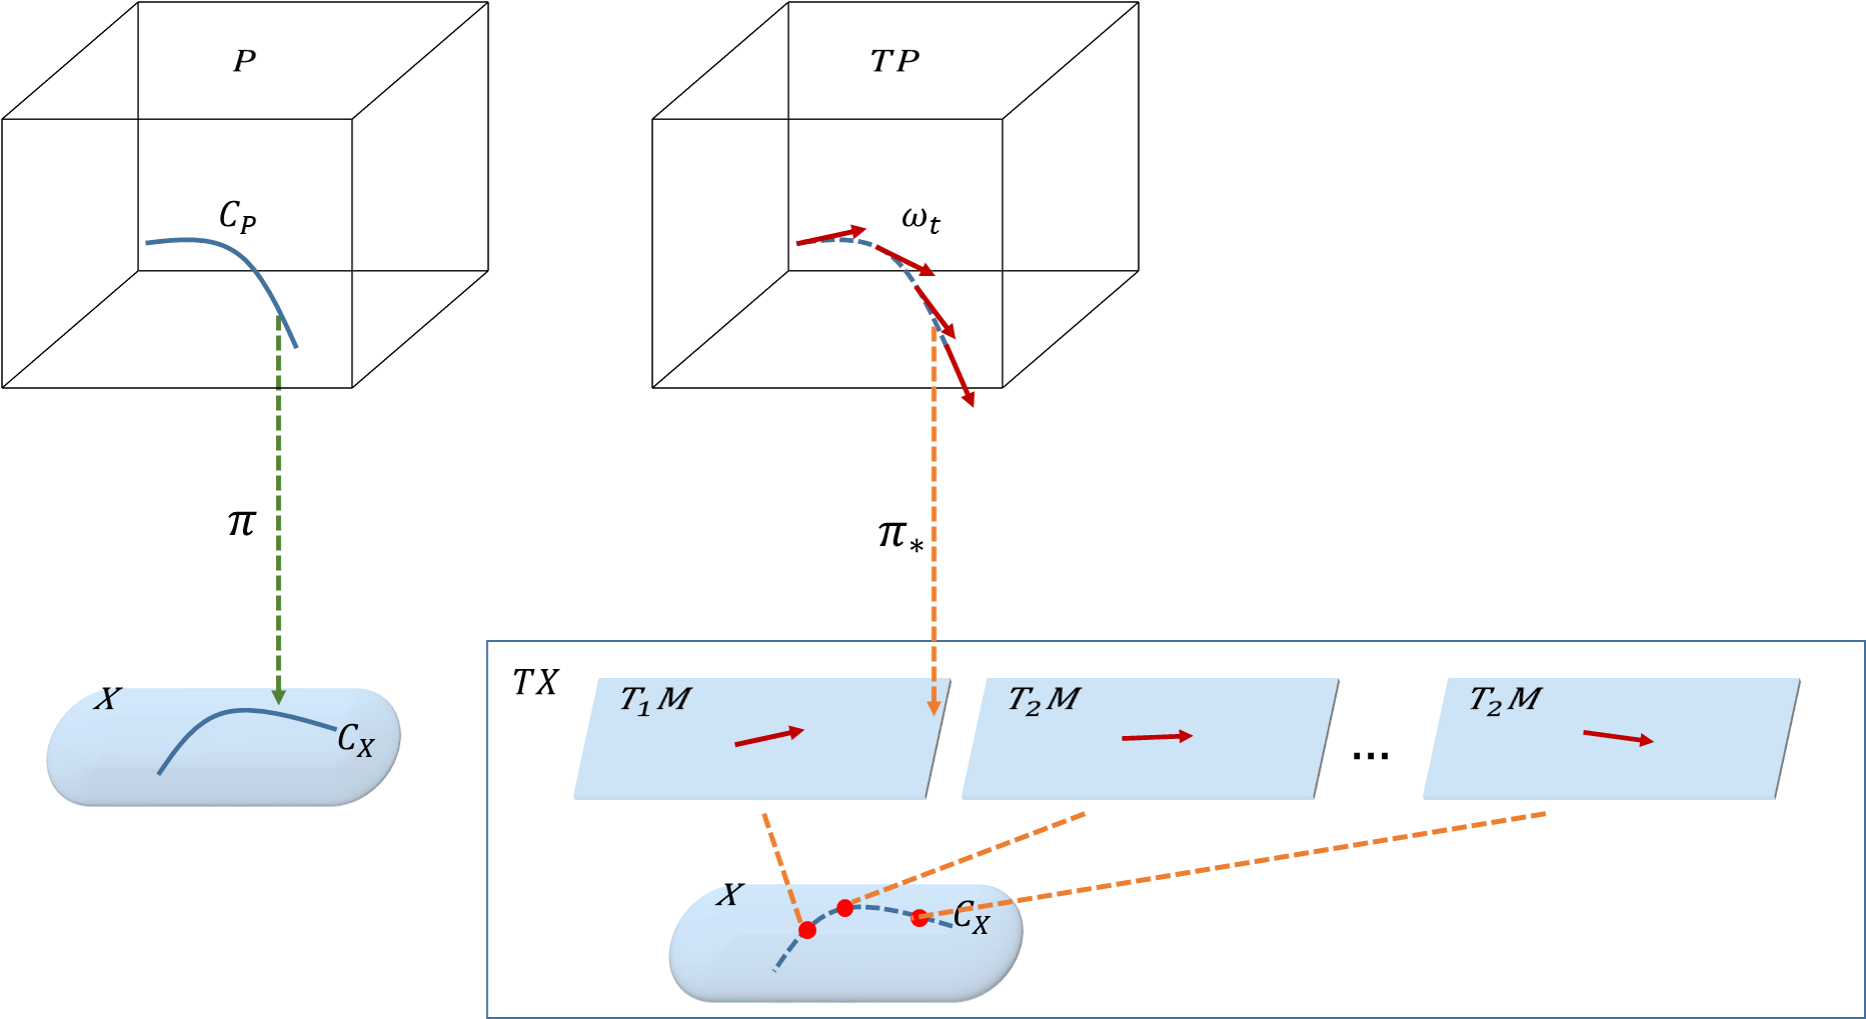
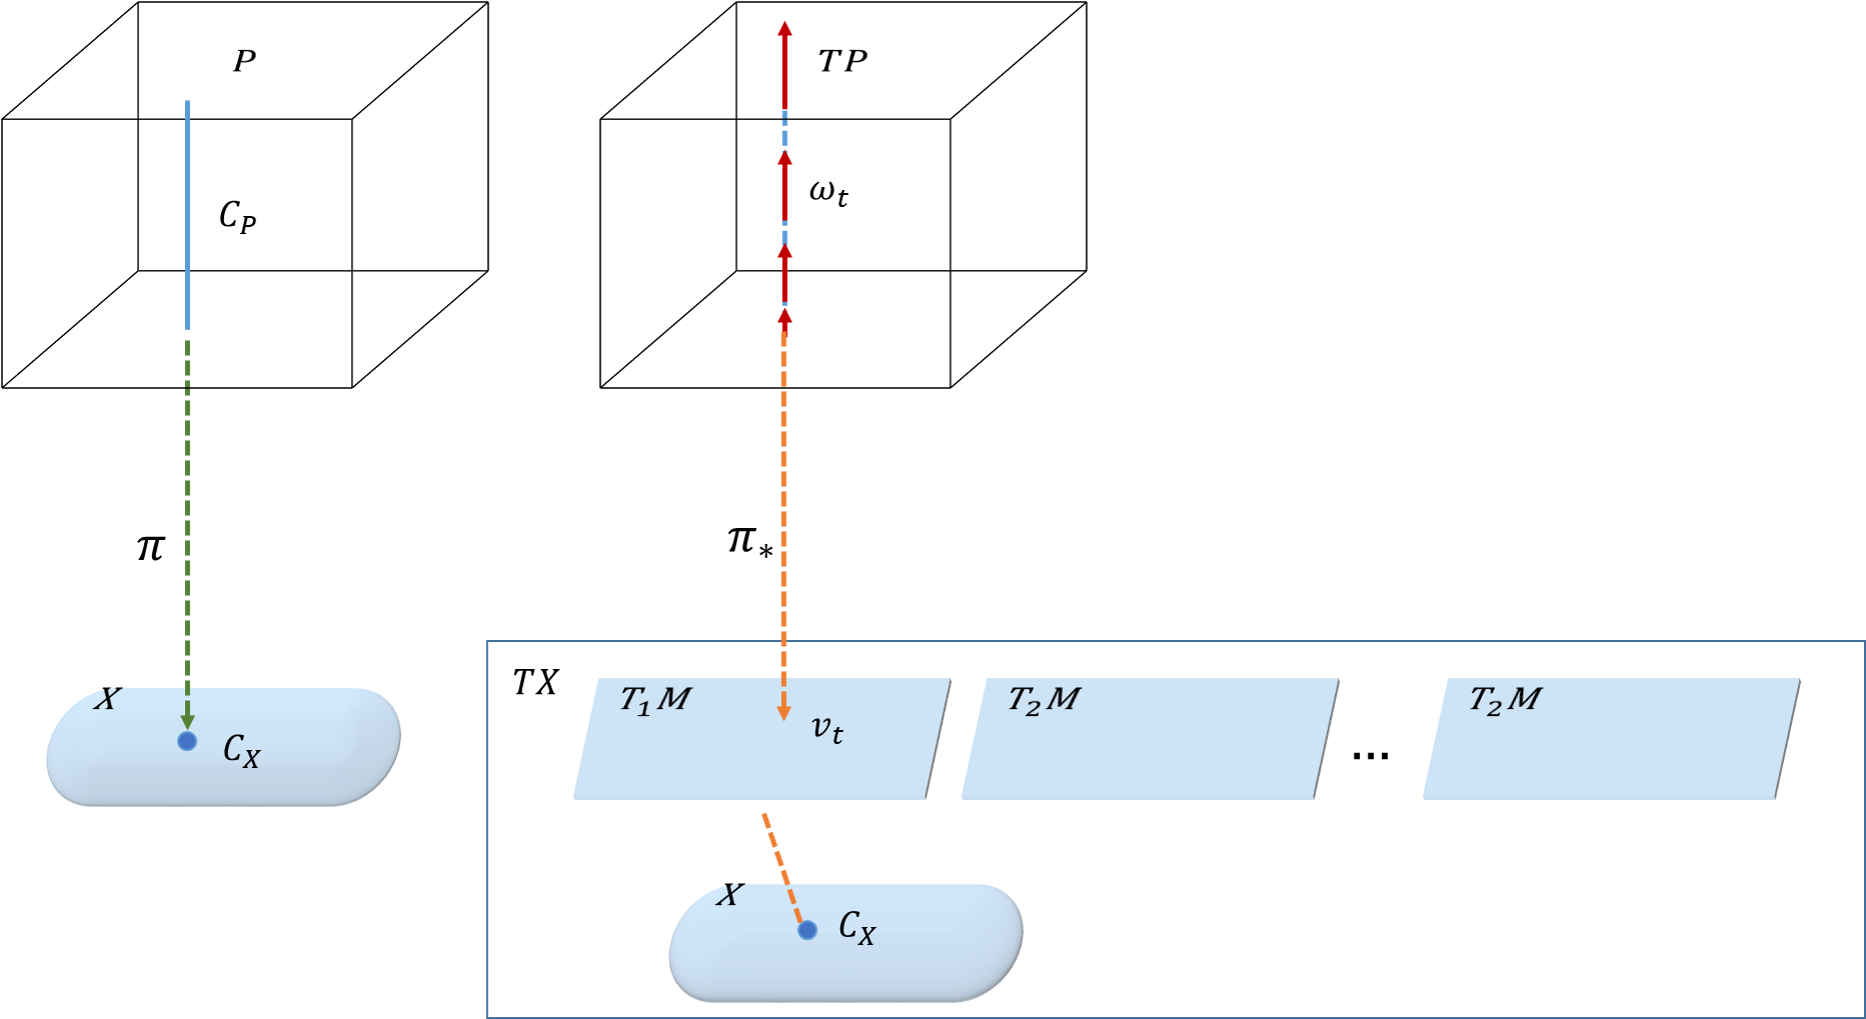
fiber

diff --git a/_posts/2018-11-30-Fiber-Bundles/2018-11-30-Fiber-Bundles.md b/_posts/2018-11-30-Fiber-Bundles/2018-11-30-Fiber-Bundles.md
@@ -334,9 +334,18 @@ Consider a PFB $P: (P , X , \pi , G)$ and a smooth curve $C _ X$ in $X$ with par
 - $C _ P$ projects onto $C _ X$ under the projection $\pi : P \rightarrow X$.
 - The tangent vectors $\omega _ t \in T P$ to $C _ P$ project onto the tangent vectors $v _ t \in T X$ to $C _ X$ under the push-forward(differential) map $\pi _ * : T P \rightarrow T X$.
 
-<img src = "https://raw.githubusercontent.com/yf-liu/yf-liu.github.io/master/_posts/2018-11-30-Fiber-Bundles/assets/Cp.png" width="30%">
+<img src = "https://raw.githubusercontent.com/yf-liu/yf-liu.github.io/master/_posts/2018-11-30-Fiber-Bundles/assets/Cp.png" width="80%">
 
-The structure that enables one to determine the curve $C _ P : t \longrightarrow p(t) \in P$ uniquely for a given curve $C _ X : t \longrightarrow x(t) \in P$ and a initial condition $p (0) \in F _ {x(0)}$, is a geometry or a connection on the PFB $P$. The curve $C _ P$ os the horizon lift of $C _ X$ associated with this connection. The tangent vectors $\omega _ t$ to $C _ P$ are the horizontal vectors. 
+The structure that enables one to determine the curve $C _ P : t \longrightarrow p(t) \in P$ uniquely for a given curve $C _ X : t \longrightarrow x(t) \in P$ and a initial condition $p (0) \in F _ {x(0)}$, is a geometry or a connection on the PFB $P$. The curve $C _ P$ is the horizon lift of $C _ X$ associated with this connection. The tangent vectors $\omega _ t$ to $C _ P$ are the horizontal vectors. 
+
+At any point $q$, the tangent space $T _ p P$ to the bundle can be decomposed into two spaces, one parallel to the fiber, called the vertical subspace $V _ p P$, and one transverse to the fiber, called the horizontal space $H _ p P$.
+$$
+T _ p P = V _ p P \oplus H _ p P
+$$
+The vertical space is defined uniquely by 
+$$
+V _ p P = \ker (\pi _ *)
+$$
 
 
 
